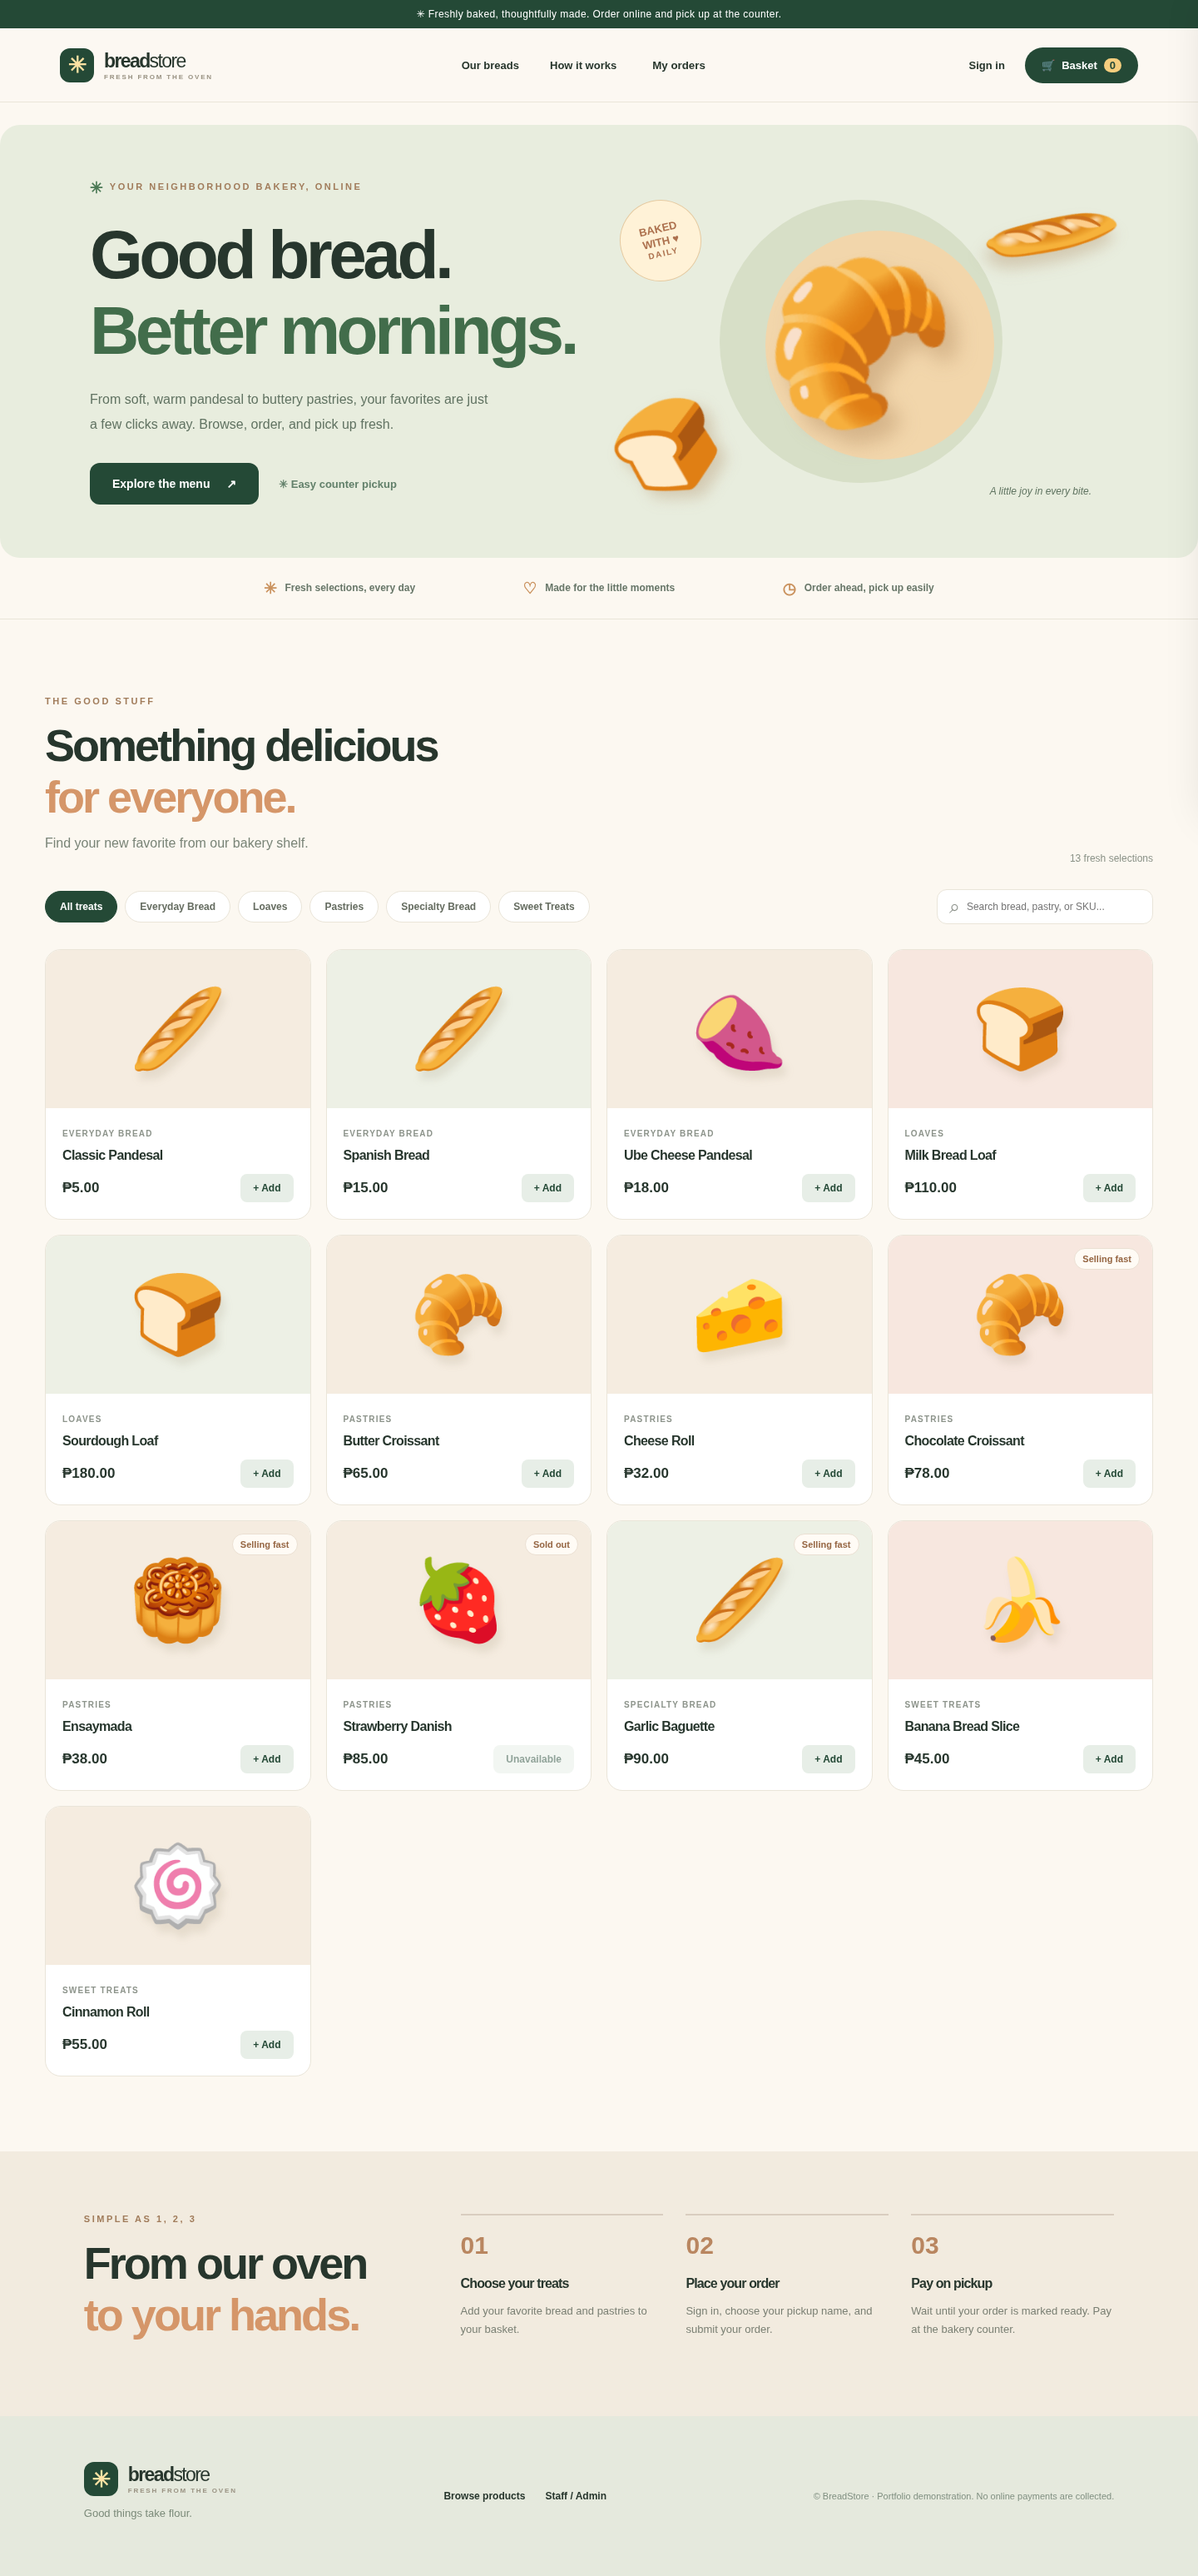
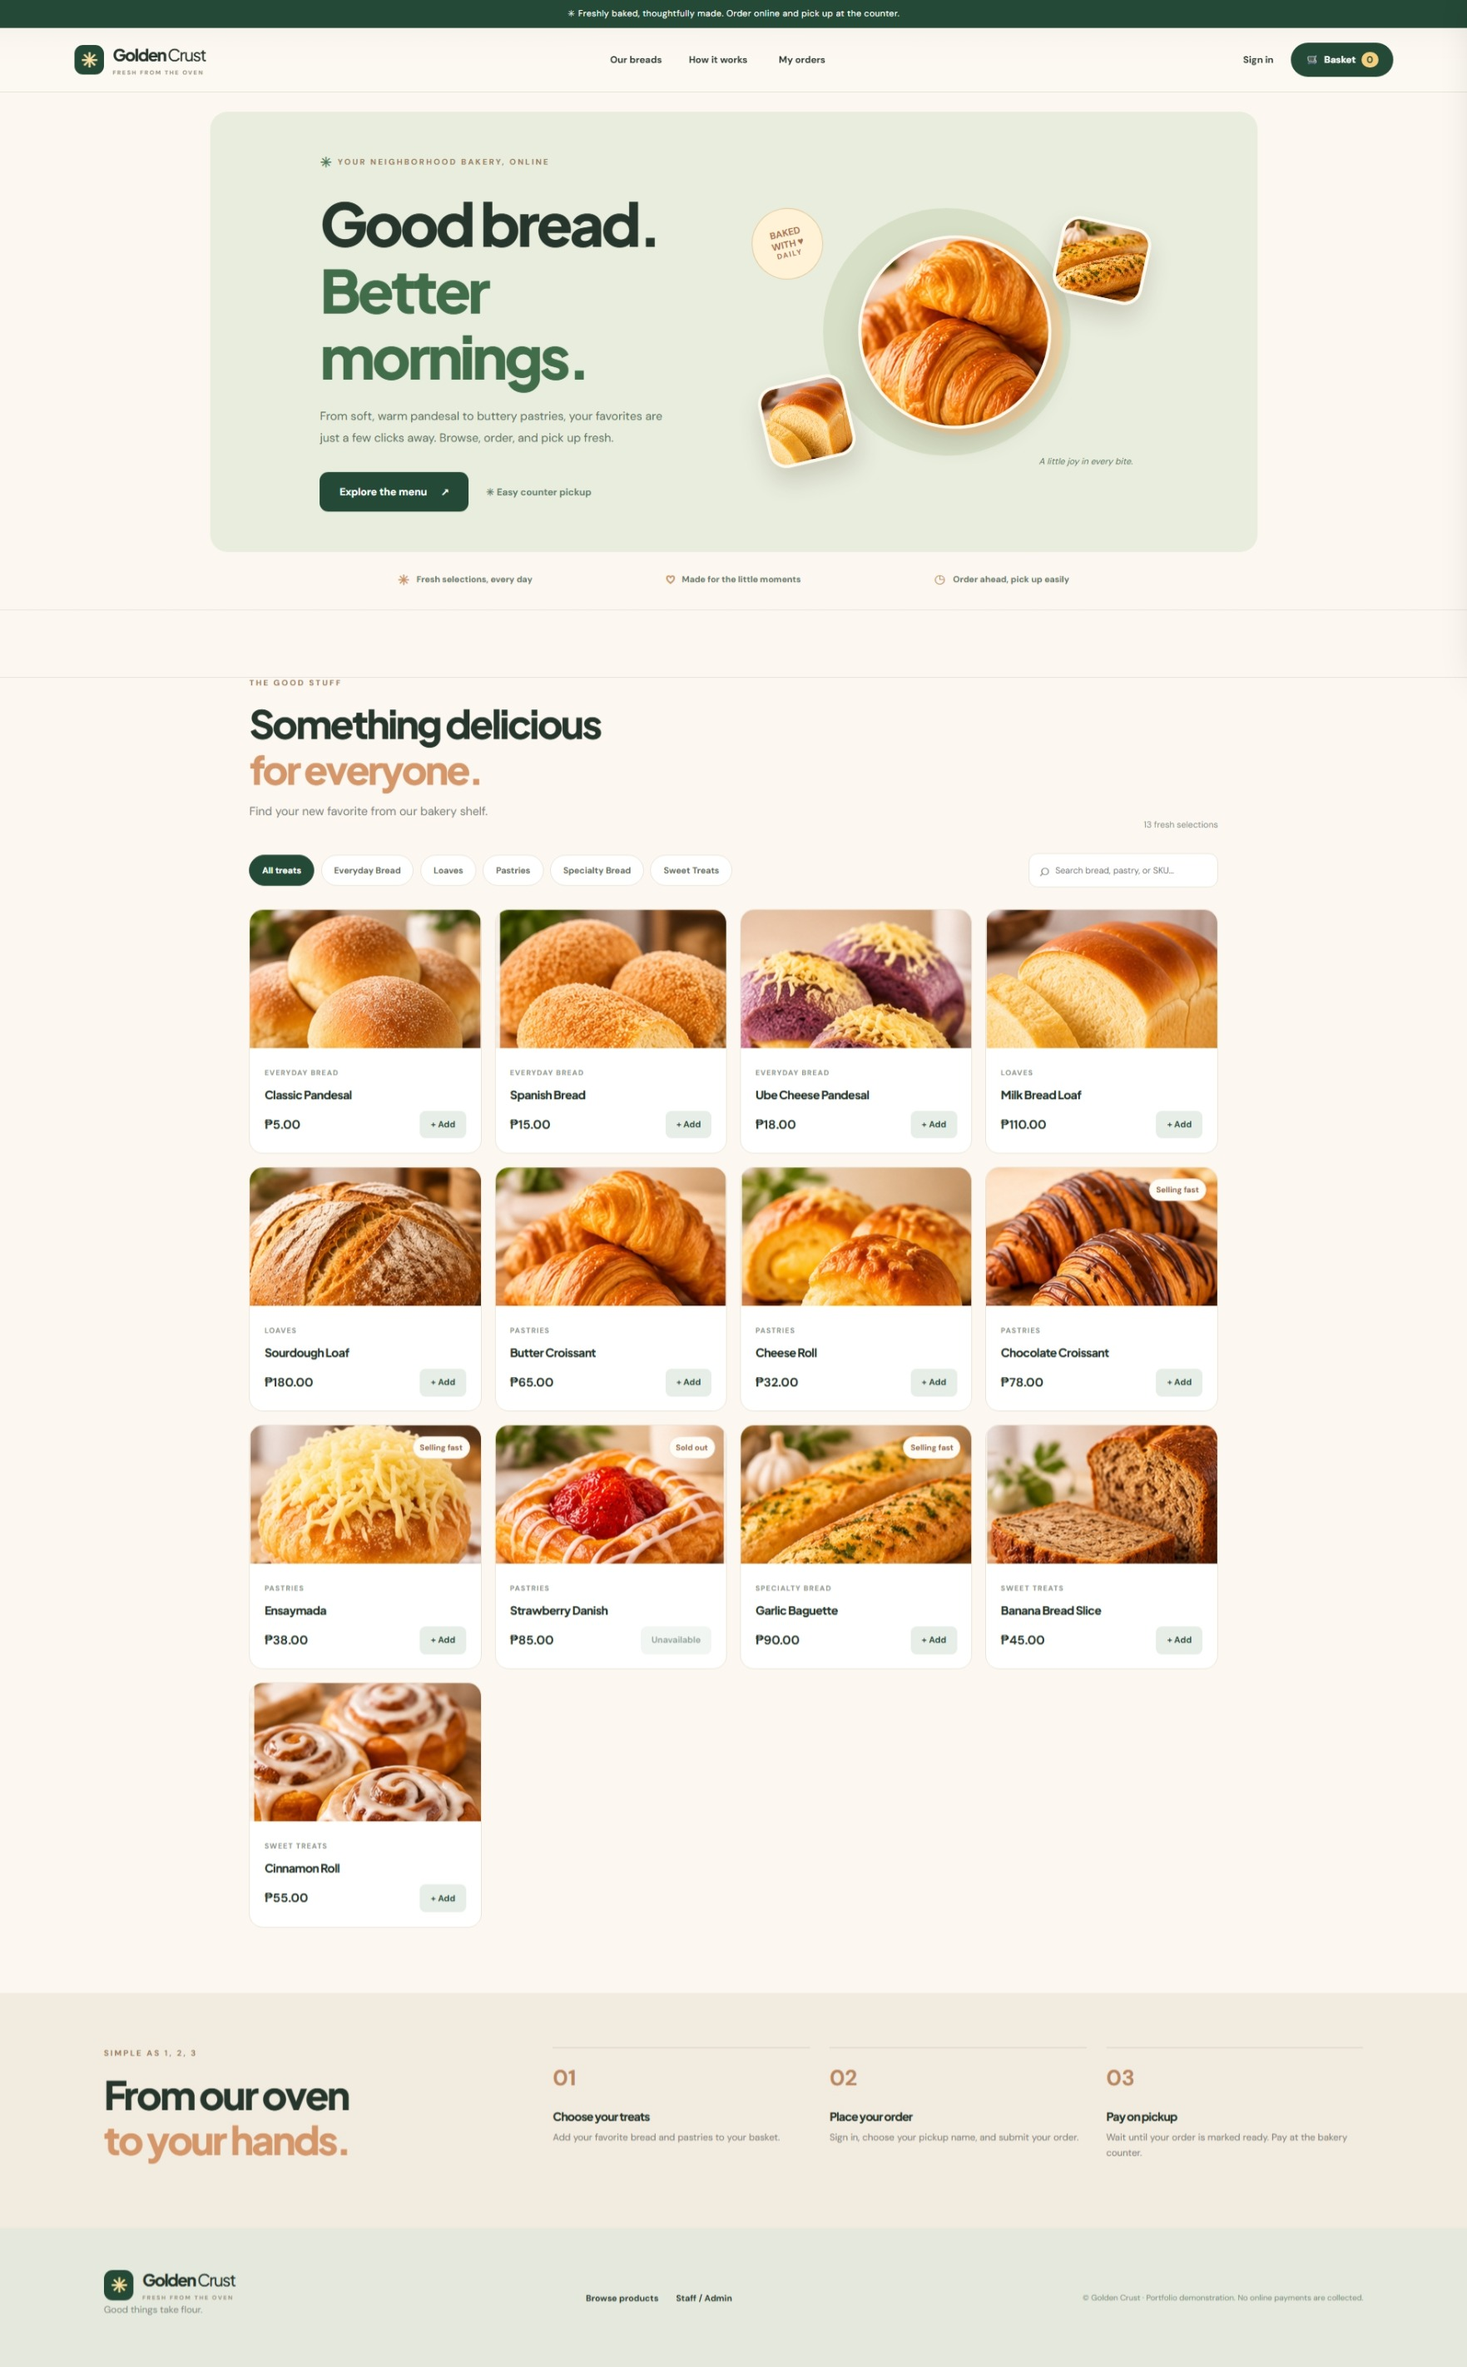
Update Golden Crust README and screenshots

diff --git a/README.md b/README.md
@@ -1,8 +1,23 @@
-# BreadStore — Bakery Inventory, Point of Sale & Customer Ordering System
+# Golden Crust — Bakery Inventory, Point of Sale & Customer Ordering System
 
 ![Dashboard preview](docs/screenshots/dashboard.png)
 
-A standalone **web-based inventory, point-of-sale, and customer pickup ordering application for a small bakery**. Includes a functional SQL database, admin authentication, product management, stock movements, sales transactions, reports, and explainable reorder suggestions. Designed as **Project 1: Web/Application Development** evidence for a BSIT portfolio. This is **not** a portfolio website.
+Golden Crust is a web-based Bakery Inventory, Point of Sale,
+and Customer Ordering Management System designed to help
+small bakery businesses manage their daily operations.
+
+The system provides two interfaces: an Admin Dashboard
+for managing products, inventory, sales, customer orders,
+and reports, and a Customer Website where users can browse
+bread products, register, log in, and place pickup orders.
+
+Developed using Python, FastAPI, SQLite, HTML, CSS,
+JavaScript, and Bootstrap, the system demonstrates
+database integration, CRUD operations, authentication,
+validation, and web application development.
+
+This project serves as Project 1: Web/Application
+Development for our BSIT Industry-Ready Portfolio.
 
 > **Status:** Local runnable project with integration tests. **Not yet publicly deployed.** Screenshots show example demonstration data, not a real operating business.
 
